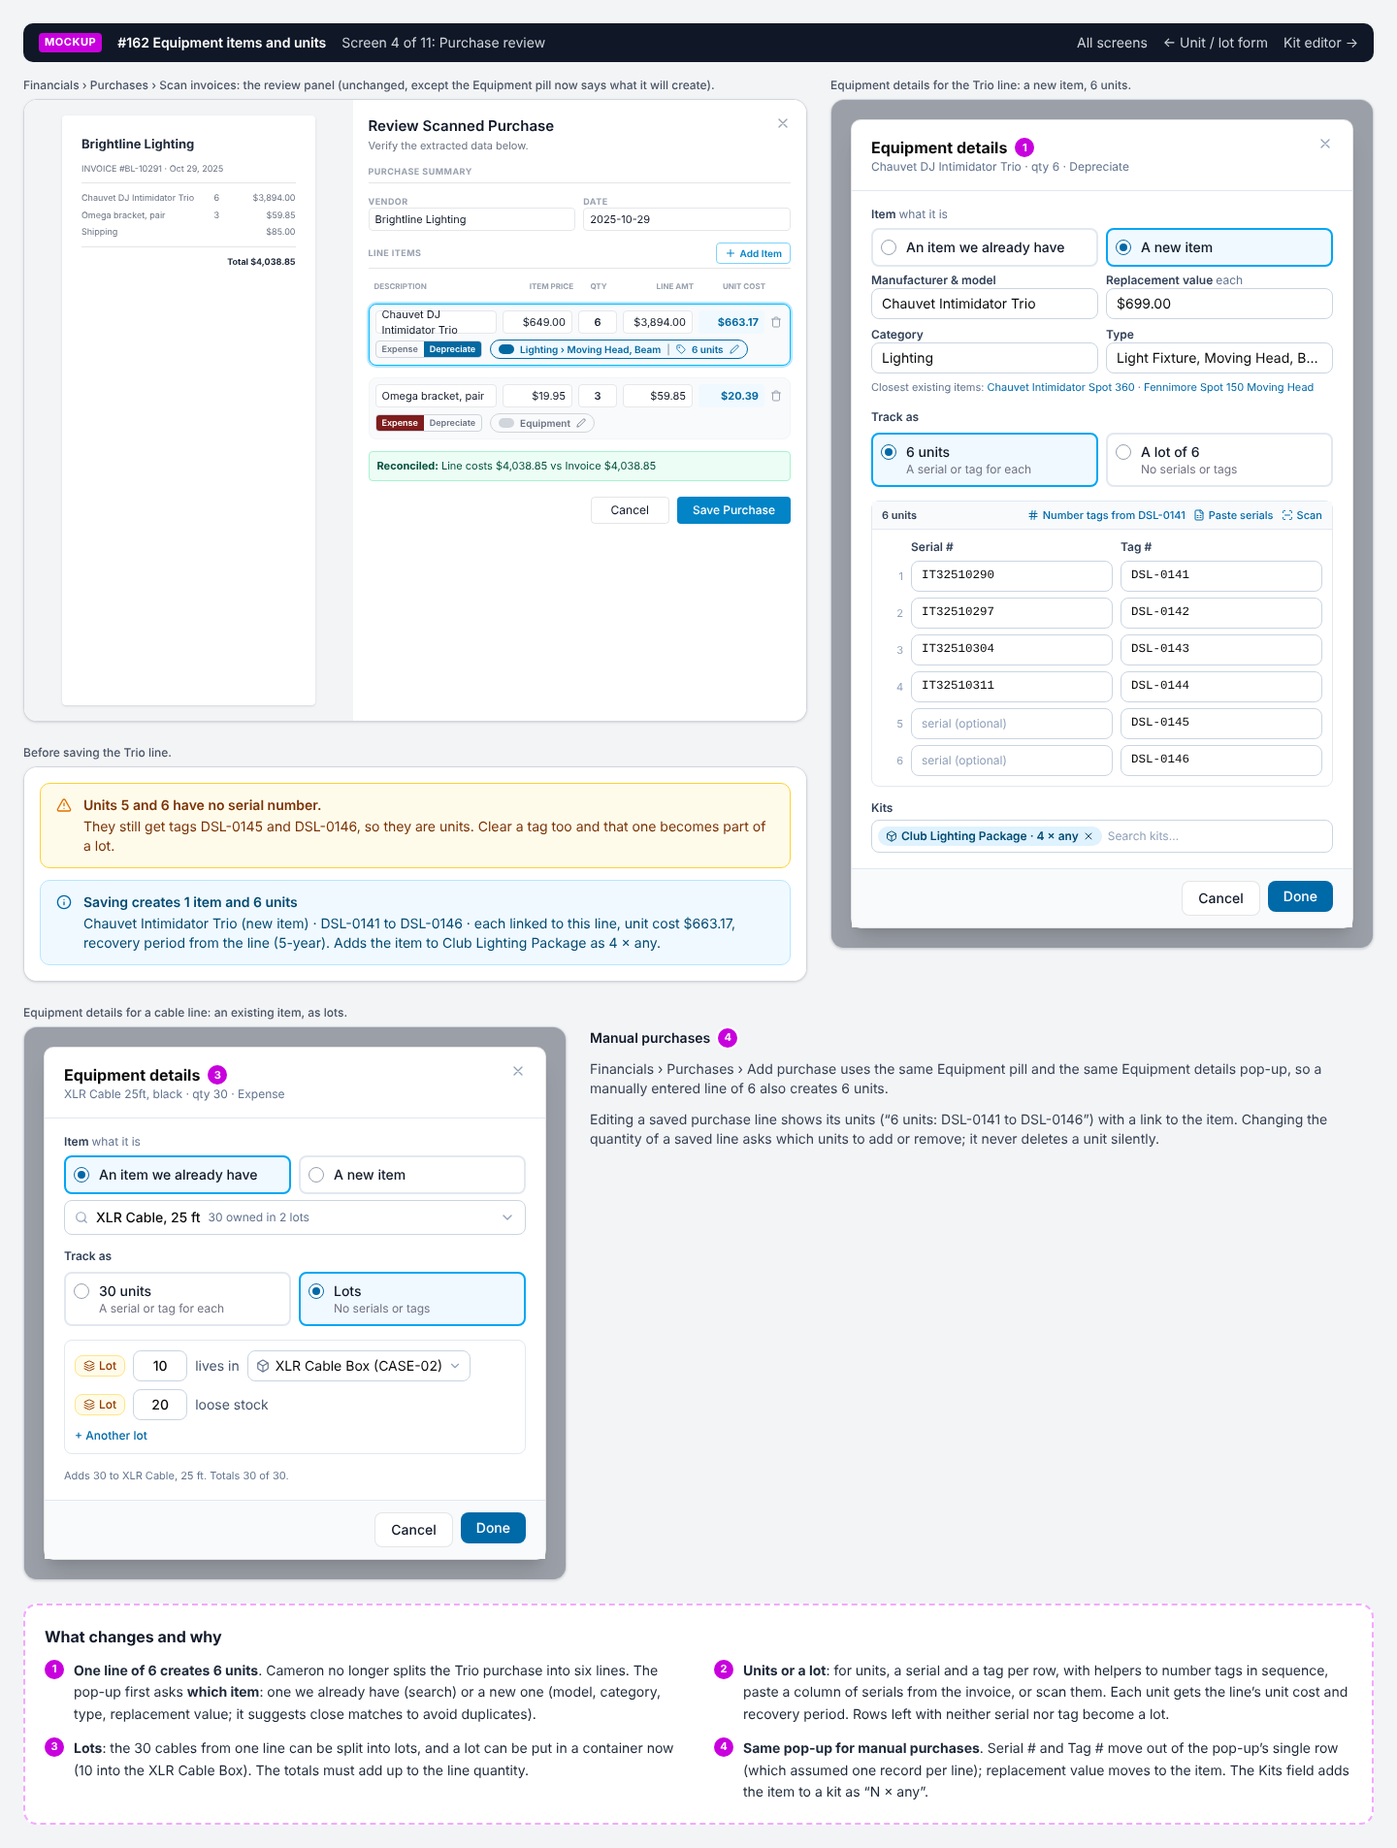
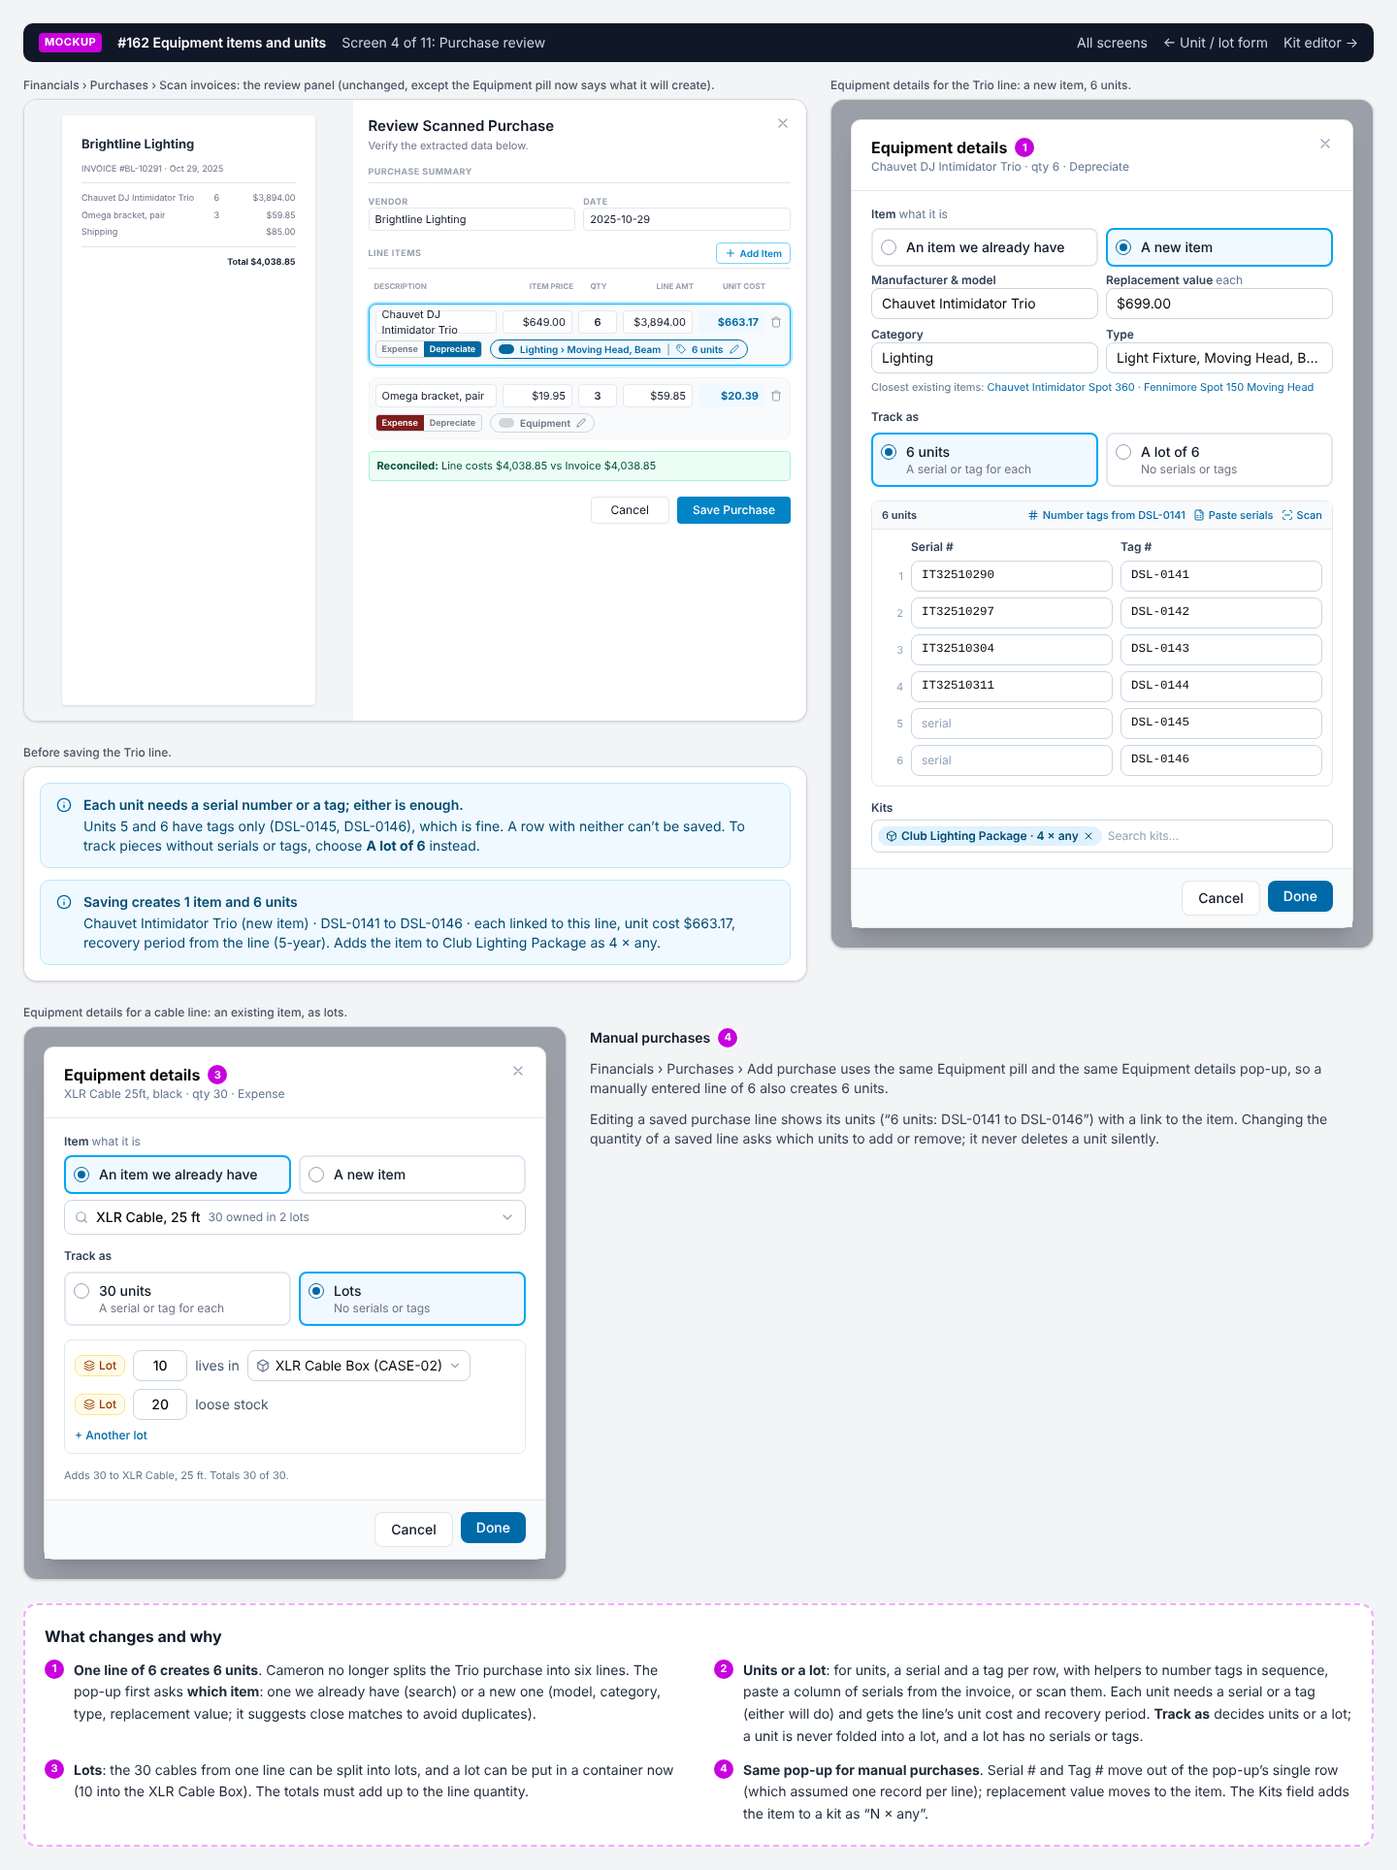
docs(design): Track as decides units or a lot (#162 review)
Cameron, 10-07: the purchase pop-up's Track as choice decides units or a
lot. A unit needs a serial or a tag (either will do); a row with neither
can't be saved. A unit is never folded into a lot. Screen 4 no longer
turns blank rows into a lot.

Claude-Session: https://claude.ai/code/session_013gAYYf2hpcECG9QpxFz5Vo

diff --git a/docs/design/mockups/equipment-units/04-purchase-review.html b/docs/design/mockups/equipment-units/04-purchase-review.html
@@ -40,7 +40,7 @@
   <div class="rounded border border-[#a7f3d0] bg-[#ecfdf5] px-2 py-1.5 text-[11px] text-emerald-900"><b>Reconciled:</b> Line costs $4,038.85 vs Invoice $4,038.85</div>
   <div class="flex justify-end gap-2 pt-1"><span class="inline-flex h-7 items-center rounded border px-5 text-xs">Cancel</span><span class="inline-flex h-7 items-center rounded bg-[#0284c7] px-4 text-xs font-medium text-white">Save Purchase</span></div>
 </div></div></div><div class="mt-6"><p class="mb-1.5 text-xs font-medium text-gray-600">Before saving the Trio line.</p><div class="rounded-xl border border-gray-300 overflow-hidden bg-gray-50 shadow-sm"><div class="bg-white p-4"><div class="space-y-3">
-<div class="flex gap-3 rounded-lg border px-4 py-3 border-amber-300 bg-amber-50 text-amber-900"><svg class="ic h-4 w-4 mt-0.5 text-amber-600" viewBox="0 0 24 24" aria-hidden="true"><path d="m21.73 18-8-14a2 2 0 0 0-3.48 0l-8 14A2 2 0 0 0 4 21h16a2 2 0 0 0 1.73-3"/><path d="M12 9v4M12 17h.01"/></svg><div class="text-sm"><div class="font-semibold">Units 5 and 6 have no serial number.</div><div class="mt-0.5">They still get tags DSL-0145 and DSL-0146, so they are units. Clear a tag too and that one becomes part of a lot.</div></div></div>
+<div class="flex gap-3 rounded-lg border px-4 py-3 border-sky-200 bg-sky-50 text-sky-900"><svg class="ic h-4 w-4 mt-0.5 text-sky-700" viewBox="0 0 24 24" aria-hidden="true"><circle cx="12" cy="12" r="10"/><path d="M12 16v-4M12 8h.01"/></svg><div class="text-sm"><div class="font-semibold">Each unit needs a serial number or a tag; either is enough.</div><div class="mt-0.5">Units 5 and 6 have tags only (DSL-0145, DSL-0146), which is fine. A row with neither can’t be saved. To track pieces without serials or tags, choose <b>A lot of 6</b> instead.</div></div></div>
 <div class="flex gap-3 rounded-lg border px-4 py-3 border-sky-200 bg-sky-50 text-sky-900"><svg class="ic h-4 w-4 mt-0.5 text-sky-700" viewBox="0 0 24 24" aria-hidden="true"><circle cx="12" cy="12" r="10"/><path d="M12 16v-4M12 8h.01"/></svg><div class="text-sm"><div class="font-semibold">Saving creates 1 item and 6 units</div><div class="mt-0.5">Chauvet Intimidator Trio (new item) · DSL-0141 to DSL-0146 · each linked to this line, unit cost $663.17, recovery period from the line (5-year). Adds the item to Club Lighting Package as 4 × any.</div></div></div>
 </div></div></div></div></div><div><p class="mb-1.5 text-xs font-medium text-gray-600">Equipment details for the Trio line: a new item, 6 units.</p><div class="rounded-xl border border-gray-300 overflow-hidden bg-gray-50 shadow-sm"><div class="bg-slate-900/40 p-5"><div class="w-full rounded-lg border bg-white shadow-xl">
 <div class="flex items-start justify-between border-b border-slate-200 px-5 py-4"><div><div class="flex items-center gap-2 text-base font-bold">Equipment details<span class="inline-flex h-5 min-w-5 items-center justify-center rounded-full bg-fuchsia-600 px-1.5 text-[11px] font-bold text-white ring-2 ring-white shadow" title="See note 1">1</span></div><div class="text-xs text-slate-500">Chauvet DJ Intimidator Trio · qty 6 · Depreciate</div></div><svg class="ic h-4 w-4 text-slate-400" viewBox="0 0 24 24" aria-hidden="true"><path d="M18 6 6 18M6 6l12 12"/></svg></div>
@@ -54,7 +54,7 @@
 <div class="grid grid-cols-2 gap-2"><div class="rounded-md border-2 border-sky-500 bg-sky-50 p-2"><div class="flex items-start gap-2.5"><span class="mt-0.5 flex h-4 w-4 flex-none items-center justify-center rounded-full border border-sky-700 bg-white"><span class="h-2 w-2 rounded-full bg-sky-700"></span></span><div><div class="text-sm font-medium text-gray-900">6 units</div><div class="text-xs text-muted-foreground">A serial or tag for each</div></div></div></div><div class="rounded-md border-2 border-slate-200 p-2"><div class="flex items-start gap-2.5"><span class="mt-0.5 flex h-4 w-4 flex-none items-center justify-center rounded-full border border-gray-400 bg-white"></span><div><div class="text-sm font-medium text-gray-900">A lot of 6</div><div class="text-xs text-muted-foreground">No serials or tags</div></div></div></div></div></div><div class="rounded-md border border-slate-200">
 <div class="flex items-center gap-2 border-b border-slate-200 bg-slate-50 px-2.5 py-1.5 text-[11px]"><span class="font-semibold text-slate-700">6 units</span><span class="ml-auto inline-flex items-center gap-1 text-sky-700 font-medium"><svg class="ic h-3 w-3" viewBox="0 0 24 24" aria-hidden="true"><path d="M4 9h16M4 15h16M10 3 8 21M16 3l-2 18"/></svg>Number tags from DSL-0141</span><span class="inline-flex items-center gap-1 text-sky-700 font-medium"><svg class="ic h-3 w-3" viewBox="0 0 24 24" aria-hidden="true"><path d="M15 2H6a2 2 0 0 0-2 2v16a2 2 0 0 0 2 2h12a2 2 0 0 0 2-2V7Z"/><path d="M14 2v4a2 2 0 0 0 2 2h4M8 13h2M14 13h2M8 17h2M14 17h2"/></svg>Paste serials</span><span class="inline-flex items-center gap-1 text-sky-700 font-medium"><svg class="ic h-3 w-3" viewBox="0 0 24 24" aria-hidden="true"><path d="M3 7V5a2 2 0 0 1 2-2h2M17 3h2a2 2 0 0 1 2 2v2M21 17v2a2 2 0 0 1-2 2h-2M7 21H5a2 2 0 0 1-2-2v-2M7 12h10"/></svg>Scan</span></div>
 <div class="grid grid-cols-[22px_1fr_1fr] gap-x-2 gap-y-1.5 p-2.5 text-[11px]"><span></span><div class="text-xs font-semibold text-slate-700">Serial #</div><div class="text-xs font-semibold text-slate-700">Tag #</div>
-<span class="self-center text-right text-slate-400">1</span><div class="flex h-8 items-center rounded-md border border-slate-300 bg-white px-2.5 text-sm font-mono text-[12.5px] "><span class="truncate">IT32510290</span></div><div class="flex h-8 items-center rounded-md border border-slate-300 bg-white px-2.5 text-sm font-mono text-[12.5px] "><span class="truncate">DSL-0141</span></div><span class="self-center text-right text-slate-400">2</span><div class="flex h-8 items-center rounded-md border border-slate-300 bg-white px-2.5 text-sm font-mono text-[12.5px] "><span class="truncate">IT32510297</span></div><div class="flex h-8 items-center rounded-md border border-slate-300 bg-white px-2.5 text-sm font-mono text-[12.5px] "><span class="truncate">DSL-0142</span></div><span class="self-center text-right text-slate-400">3</span><div class="flex h-8 items-center rounded-md border border-slate-300 bg-white px-2.5 text-sm font-mono text-[12.5px] "><span class="truncate">IT32510304</span></div><div class="flex h-8 items-center rounded-md border border-slate-300 bg-white px-2.5 text-sm font-mono text-[12.5px] "><span class="truncate">DSL-0143</span></div><span class="self-center text-right text-slate-400">4</span><div class="flex h-8 items-center rounded-md border border-slate-300 bg-white px-2.5 text-sm font-mono text-[12.5px] "><span class="truncate">IT32510311</span></div><div class="flex h-8 items-center rounded-md border border-slate-300 bg-white px-2.5 text-sm font-mono text-[12.5px] "><span class="truncate">DSL-0144</span></div><span class="self-center text-right text-slate-400">5</span><div class="flex h-8 items-center rounded-md border border-slate-300 bg-white px-2.5 text-sm font-mono text-[12.5px] "><span class="text-slate-400 font-sans text-xs">serial (optional)</span></div><div class="flex h-8 items-center rounded-md border border-slate-300 bg-white px-2.5 text-sm font-mono text-[12.5px] "><span class="truncate">DSL-0145</span></div><span class="self-center text-right text-slate-400">6</span><div class="flex h-8 items-center rounded-md border border-slate-300 bg-white px-2.5 text-sm font-mono text-[12.5px] "><span class="text-slate-400 font-sans text-xs">serial (optional)</span></div><div class="flex h-8 items-center rounded-md border border-slate-300 bg-white px-2.5 text-sm font-mono text-[12.5px] "><span class="truncate">DSL-0146</span></div></div></div><div><div class="text-xs font-semibold text-slate-700">Kits</div><div class="mt-1 flex flex-wrap gap-1.5 rounded-md border border-slate-300 p-1.5"><span class="inline-flex items-center gap-1 rounded-full bg-sky-100 px-2 py-0.5 text-xs font-semibold text-sky-900"><svg class="ic h-3 w-3" viewBox="0 0 24 24" aria-hidden="true"><path d="M21 8a2 2 0 0 0-1-1.73l-7-4a2 2 0 0 0-2 0l-7 4A2 2 0 0 0 3 8v8a2 2 0 0 0 1 1.73l7 4a2 2 0 0 0 2 0l7-4A2 2 0 0 0 21 16Z"/><path d="m3.3 7 8.7 5 8.7-5M12 22V12"/></svg>Club Lighting Package · 4 × any<svg class="ic h-3 w-3" viewBox="0 0 24 24" aria-hidden="true"><path d="M18 6 6 18M6 6l12 12"/></svg></span><span class="text-xs text-slate-400 self-center">Search kits…</span></div></div></div>
+<span class="self-center text-right text-slate-400">1</span><div class="flex h-8 items-center rounded-md border border-slate-300 bg-white px-2.5 text-sm font-mono text-[12.5px] "><span class="truncate">IT32510290</span></div><div class="flex h-8 items-center rounded-md border border-slate-300 bg-white px-2.5 text-sm font-mono text-[12.5px] "><span class="truncate">DSL-0141</span></div><span class="self-center text-right text-slate-400">2</span><div class="flex h-8 items-center rounded-md border border-slate-300 bg-white px-2.5 text-sm font-mono text-[12.5px] "><span class="truncate">IT32510297</span></div><div class="flex h-8 items-center rounded-md border border-slate-300 bg-white px-2.5 text-sm font-mono text-[12.5px] "><span class="truncate">DSL-0142</span></div><span class="self-center text-right text-slate-400">3</span><div class="flex h-8 items-center rounded-md border border-slate-300 bg-white px-2.5 text-sm font-mono text-[12.5px] "><span class="truncate">IT32510304</span></div><div class="flex h-8 items-center rounded-md border border-slate-300 bg-white px-2.5 text-sm font-mono text-[12.5px] "><span class="truncate">DSL-0143</span></div><span class="self-center text-right text-slate-400">4</span><div class="flex h-8 items-center rounded-md border border-slate-300 bg-white px-2.5 text-sm font-mono text-[12.5px] "><span class="truncate">IT32510311</span></div><div class="flex h-8 items-center rounded-md border border-slate-300 bg-white px-2.5 text-sm font-mono text-[12.5px] "><span class="truncate">DSL-0144</span></div><span class="self-center text-right text-slate-400">5</span><div class="flex h-8 items-center rounded-md border border-slate-300 bg-white px-2.5 text-sm font-mono text-[12.5px] "><span class="text-slate-400 font-sans text-xs">serial</span></div><div class="flex h-8 items-center rounded-md border border-slate-300 bg-white px-2.5 text-sm font-mono text-[12.5px] "><span class="truncate">DSL-0145</span></div><span class="self-center text-right text-slate-400">6</span><div class="flex h-8 items-center rounded-md border border-slate-300 bg-white px-2.5 text-sm font-mono text-[12.5px] "><span class="text-slate-400 font-sans text-xs">serial</span></div><div class="flex h-8 items-center rounded-md border border-slate-300 bg-white px-2.5 text-sm font-mono text-[12.5px] "><span class="truncate">DSL-0146</span></div></div></div><div><div class="text-xs font-semibold text-slate-700">Kits</div><div class="mt-1 flex flex-wrap gap-1.5 rounded-md border border-slate-300 p-1.5"><span class="inline-flex items-center gap-1 rounded-full bg-sky-100 px-2 py-0.5 text-xs font-semibold text-sky-900"><svg class="ic h-3 w-3" viewBox="0 0 24 24" aria-hidden="true"><path d="M21 8a2 2 0 0 0-1-1.73l-7-4a2 2 0 0 0-2 0l-7 4A2 2 0 0 0 3 8v8a2 2 0 0 0 1 1.73l7 4a2 2 0 0 0 2 0l7-4A2 2 0 0 0 21 16Z"/><path d="m3.3 7 8.7 5 8.7-5M12 22V12"/></svg>Club Lighting Package · 4 × any<svg class="ic h-3 w-3" viewBox="0 0 24 24" aria-hidden="true"><path d="M18 6 6 18M6 6l12 12"/></svg></span><span class="text-xs text-slate-400 self-center">Search kits…</span></div></div></div>
 <div class="flex justify-end gap-2 border-t border-slate-200 bg-slate-50 px-5 py-3"><button class="inline-flex items-center justify-center gap-2 whitespace-nowrap rounded-md text-sm font-medium h-9 px-4 border bg-background hover:bg-accent text-gray-900 h-8">Cancel</button><button class="inline-flex h-8 items-center rounded-md bg-sky-700 px-4 text-sm font-medium text-white">Done</button></div></div></div></div></div></div>
 <div class="grid grid-cols-[560px_1fr] gap-6 items-start"><div><p class="mb-1.5 text-xs font-medium text-gray-600">Equipment details for a cable line: an existing item, as lots.</p><div class="rounded-xl border border-gray-300 overflow-hidden bg-gray-50 shadow-sm"><div class="bg-slate-900/40 p-5"><div class="w-full rounded-lg border bg-white shadow-xl">
 <div class="flex items-start justify-between border-b border-slate-200 px-5 py-4"><div><div class="flex items-center gap-2 text-base font-bold">Equipment details<span class="inline-flex h-5 min-w-5 items-center justify-center rounded-full bg-fuchsia-600 px-1.5 text-[11px] font-bold text-white ring-2 ring-white shadow" title="See note 3">3</span></div><div class="text-xs text-slate-500">XLR Cable 25ft, black · qty 30 · Expense</div></div><svg class="ic h-4 w-4 text-slate-400" viewBox="0 0 24 24" aria-hidden="true"><path d="M18 6 6 18M6 6l12 12"/></svg></div>
@@ -73,7 +73,7 @@
 <div class="flex justify-end gap-2 border-t border-slate-200 bg-slate-50 px-5 py-3"><button class="inline-flex items-center justify-center gap-2 whitespace-nowrap rounded-md text-sm font-medium h-9 px-4 border bg-background hover:bg-accent text-gray-900 h-8">Cancel</button><button class="inline-flex h-8 items-center rounded-md bg-sky-700 px-4 text-sm font-medium text-white">Done</button></div></div></div></div></div><div class="pt-6 text-sm text-gray-700 space-y-3"><p class="font-semibold text-gray-900 flex items-center gap-2">Manual purchases <span class="inline-flex h-5 min-w-5 items-center justify-center rounded-full bg-fuchsia-600 px-1.5 text-[11px] font-bold text-white ring-2 ring-white shadow" title="See note 4">4</span></p><p>Financials › Purchases › Add purchase uses the same Equipment pill and the same Equipment details pop-up, so a manually entered line of 6 also creates 6 units.</p><p>Editing a saved purchase line shows its units (“6 units: DSL-0141 to DSL-0146”) with a link to the item. Changing the quantity of a saved line asks which units to add or remove; it never deletes a unit silently.</p></div></div></main>
 <section class="mt-6 rounded-xl border-2 border-dashed border-fuchsia-300 bg-white p-5">
   <h2 class="text-base font-bold text-gray-900">What changes and why</h2>
-  <div class="mt-3 grid gap-x-8 gap-y-3 text-sm text-gray-800 md:grid-cols-2"><div class="flex gap-2.5"><span class="inline-flex h-5 min-w-5 items-center justify-center rounded-full bg-fuchsia-600 px-1.5 text-[11px] font-bold text-white ring-2 ring-white shadow" title="See note 1">1</span><div class="leading-relaxed"><b>One line of 6 creates 6 units</b>. Cameron no longer splits the Trio purchase into six lines. The pop-up first asks <b>which item</b>: one we already have (search) or a new one (model, category, type, replacement value; it suggests close matches to avoid duplicates).</div></div><div class="flex gap-2.5"><span class="inline-flex h-5 min-w-5 items-center justify-center rounded-full bg-fuchsia-600 px-1.5 text-[11px] font-bold text-white ring-2 ring-white shadow" title="See note 2">2</span><div class="leading-relaxed"><b>Units or a lot</b>: for units, a serial and a tag per row, with helpers to number tags in sequence, paste a column of serials from the invoice, or scan them. Each unit gets the line’s unit cost and recovery period. Rows left with neither serial nor tag become a lot.</div></div><div class="flex gap-2.5"><span class="inline-flex h-5 min-w-5 items-center justify-center rounded-full bg-fuchsia-600 px-1.5 text-[11px] font-bold text-white ring-2 ring-white shadow" title="See note 3">3</span><div class="leading-relaxed"><b>Lots</b>: the 30 cables from one line can be split into lots, and a lot can be put in a container now (10 into the XLR Cable Box). The totals must add up to the line quantity.</div></div><div class="flex gap-2.5"><span class="inline-flex h-5 min-w-5 items-center justify-center rounded-full bg-fuchsia-600 px-1.5 text-[11px] font-bold text-white ring-2 ring-white shadow" title="See note 4">4</span><div class="leading-relaxed"><b>Same pop-up for manual purchases</b>. Serial # and Tag # move out of the pop-up’s single row (which assumed one record per line); replacement value moves to the item. The Kits field adds the item to a kit as “N × any”.</div></div></div>
+  <div class="mt-3 grid gap-x-8 gap-y-3 text-sm text-gray-800 md:grid-cols-2"><div class="flex gap-2.5"><span class="inline-flex h-5 min-w-5 items-center justify-center rounded-full bg-fuchsia-600 px-1.5 text-[11px] font-bold text-white ring-2 ring-white shadow" title="See note 1">1</span><div class="leading-relaxed"><b>One line of 6 creates 6 units</b>. Cameron no longer splits the Trio purchase into six lines. The pop-up first asks <b>which item</b>: one we already have (search) or a new one (model, category, type, replacement value; it suggests close matches to avoid duplicates).</div></div><div class="flex gap-2.5"><span class="inline-flex h-5 min-w-5 items-center justify-center rounded-full bg-fuchsia-600 px-1.5 text-[11px] font-bold text-white ring-2 ring-white shadow" title="See note 2">2</span><div class="leading-relaxed"><b>Units or a lot</b>: for units, a serial and a tag per row, with helpers to number tags in sequence, paste a column of serials from the invoice, or scan them. Each unit needs a serial or a tag (either will do) and gets the line’s unit cost and recovery period. <b>Track as</b> decides units or a lot; a unit is never folded into a lot, and a lot has no serials or tags.</div></div><div class="flex gap-2.5"><span class="inline-flex h-5 min-w-5 items-center justify-center rounded-full bg-fuchsia-600 px-1.5 text-[11px] font-bold text-white ring-2 ring-white shadow" title="See note 3">3</span><div class="leading-relaxed"><b>Lots</b>: the 30 cables from one line can be split into lots, and a lot can be put in a container now (10 into the XLR Cable Box). The totals must add up to the line quantity.</div></div><div class="flex gap-2.5"><span class="inline-flex h-5 min-w-5 items-center justify-center rounded-full bg-fuchsia-600 px-1.5 text-[11px] font-bold text-white ring-2 ring-white shadow" title="See note 4">4</span><div class="leading-relaxed"><b>Same pop-up for manual purchases</b>. Serial # and Tag # move out of the pop-up’s single row (which assumed one record per line); replacement value moves to the item. The Kits field adds the item to a kit as “N × any”.</div></div></div>
 </section>
 </body>
 </html>
